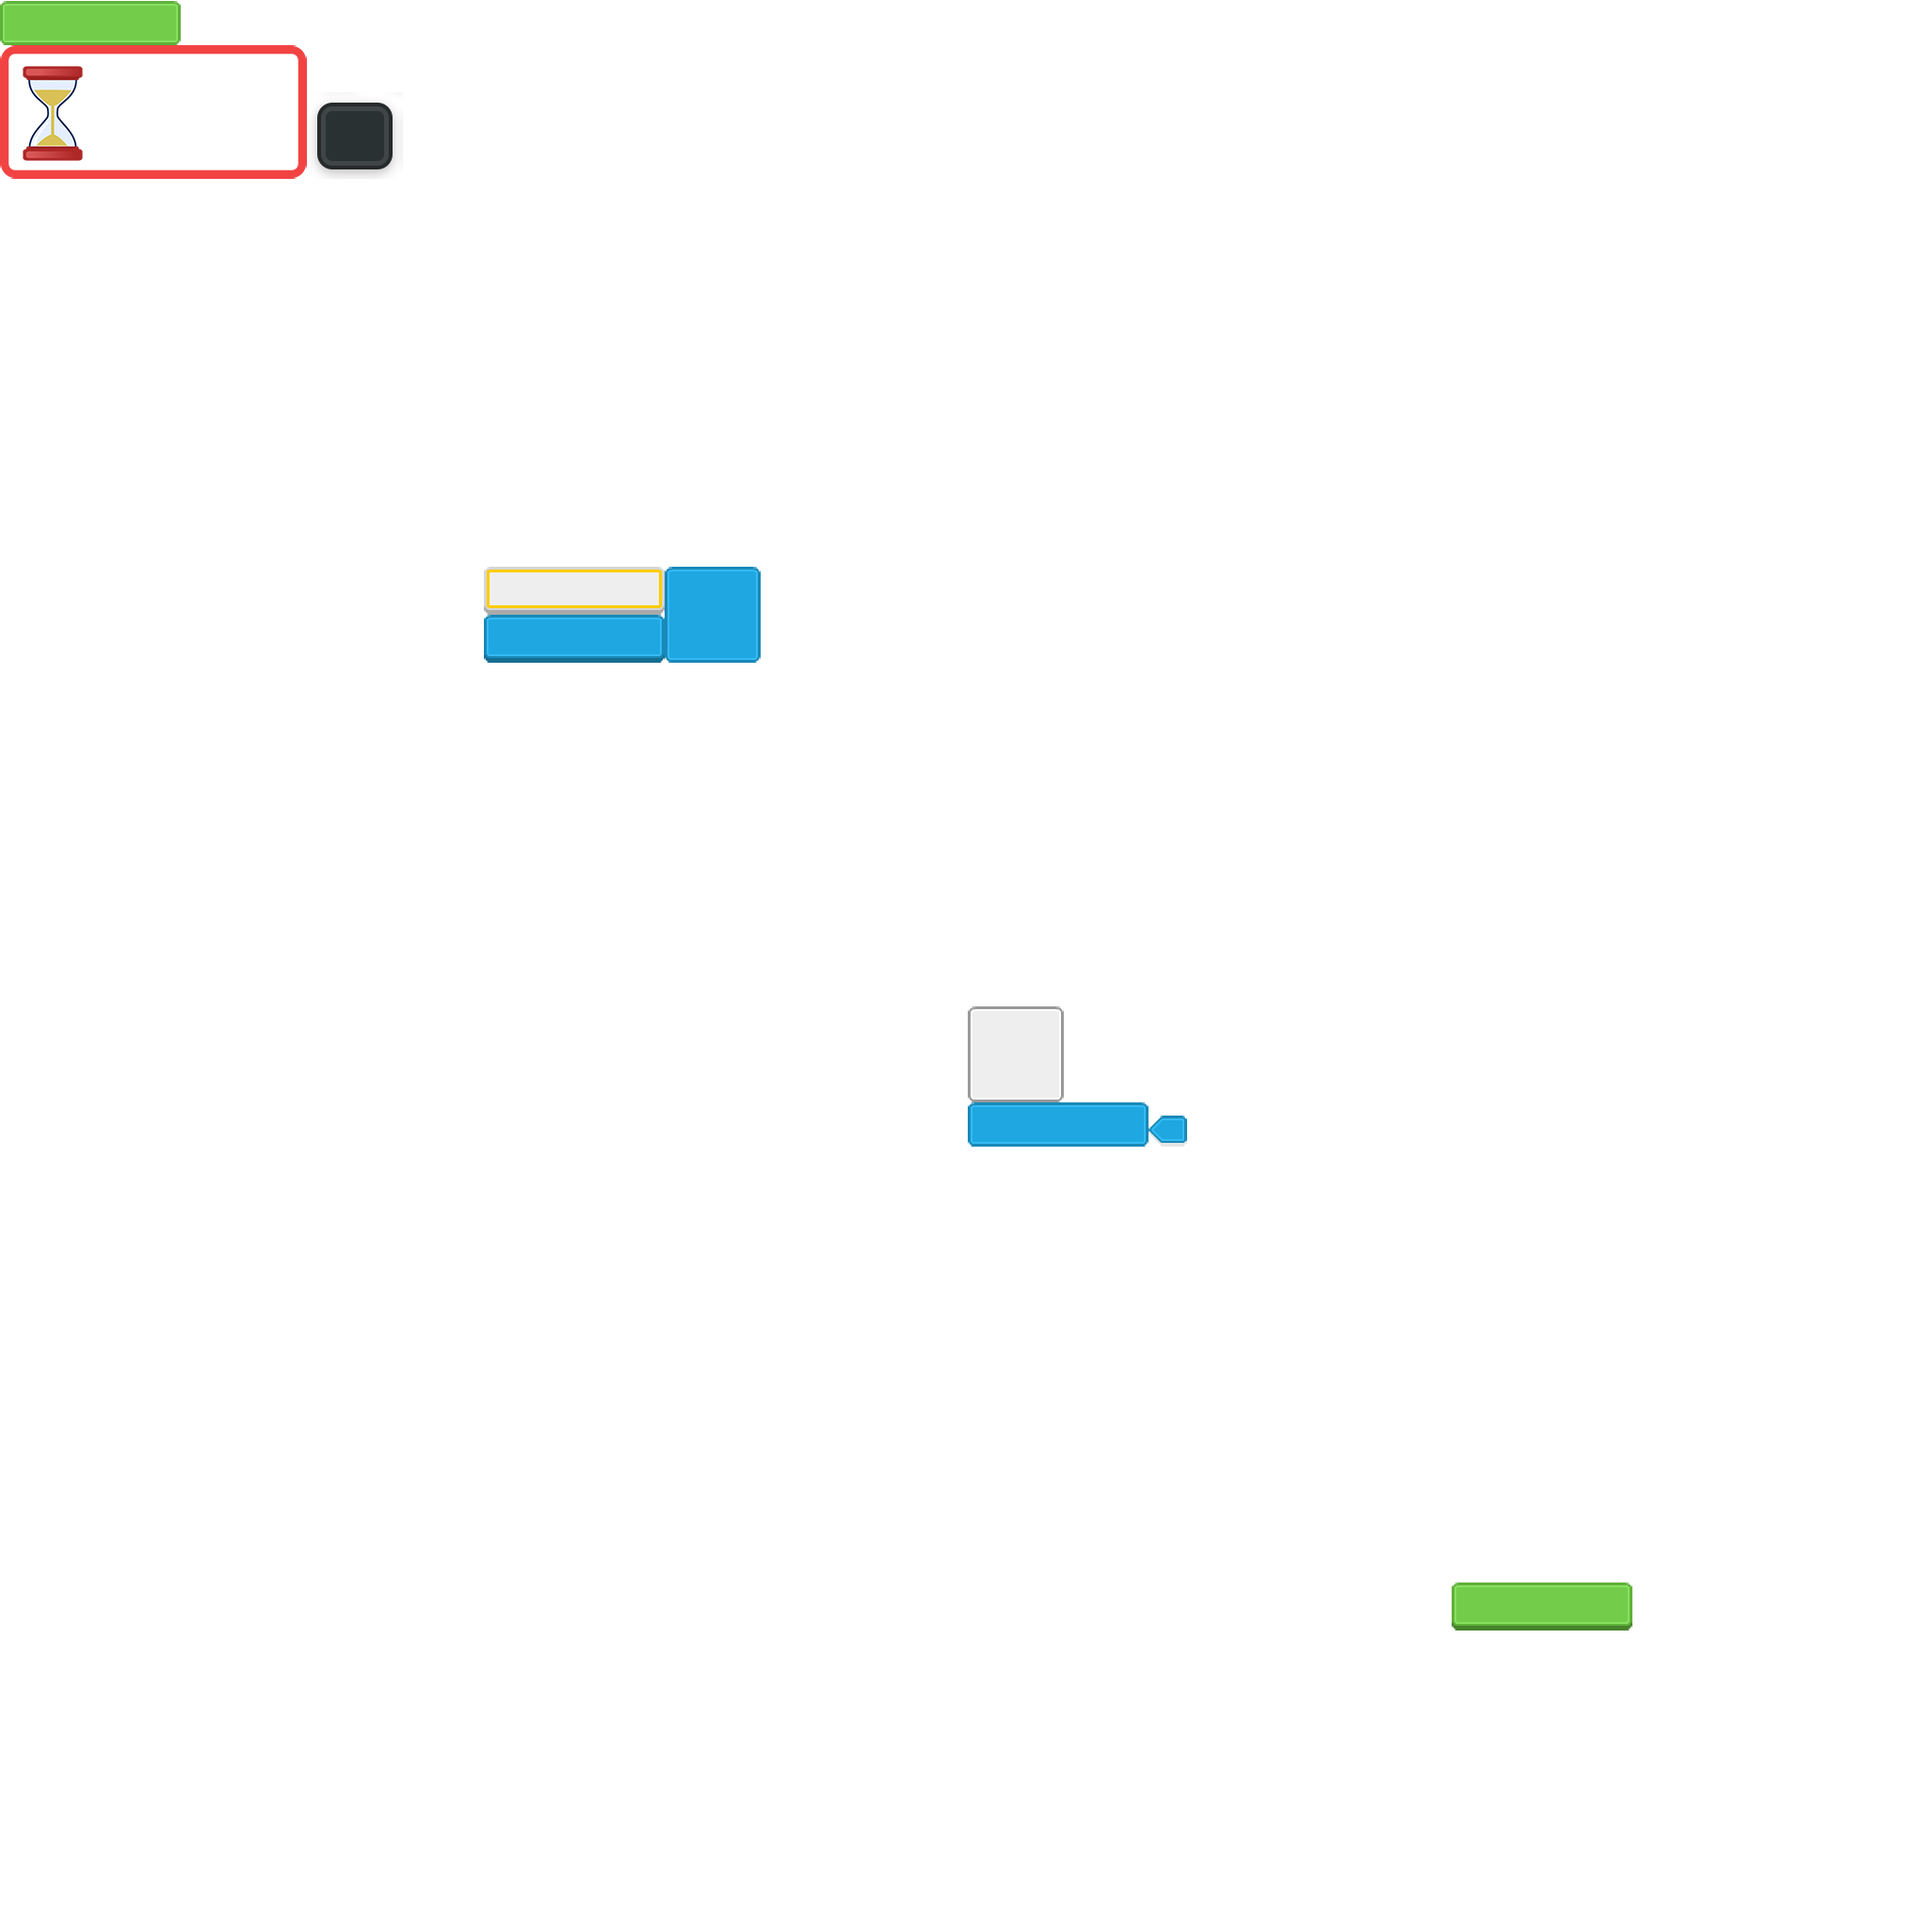
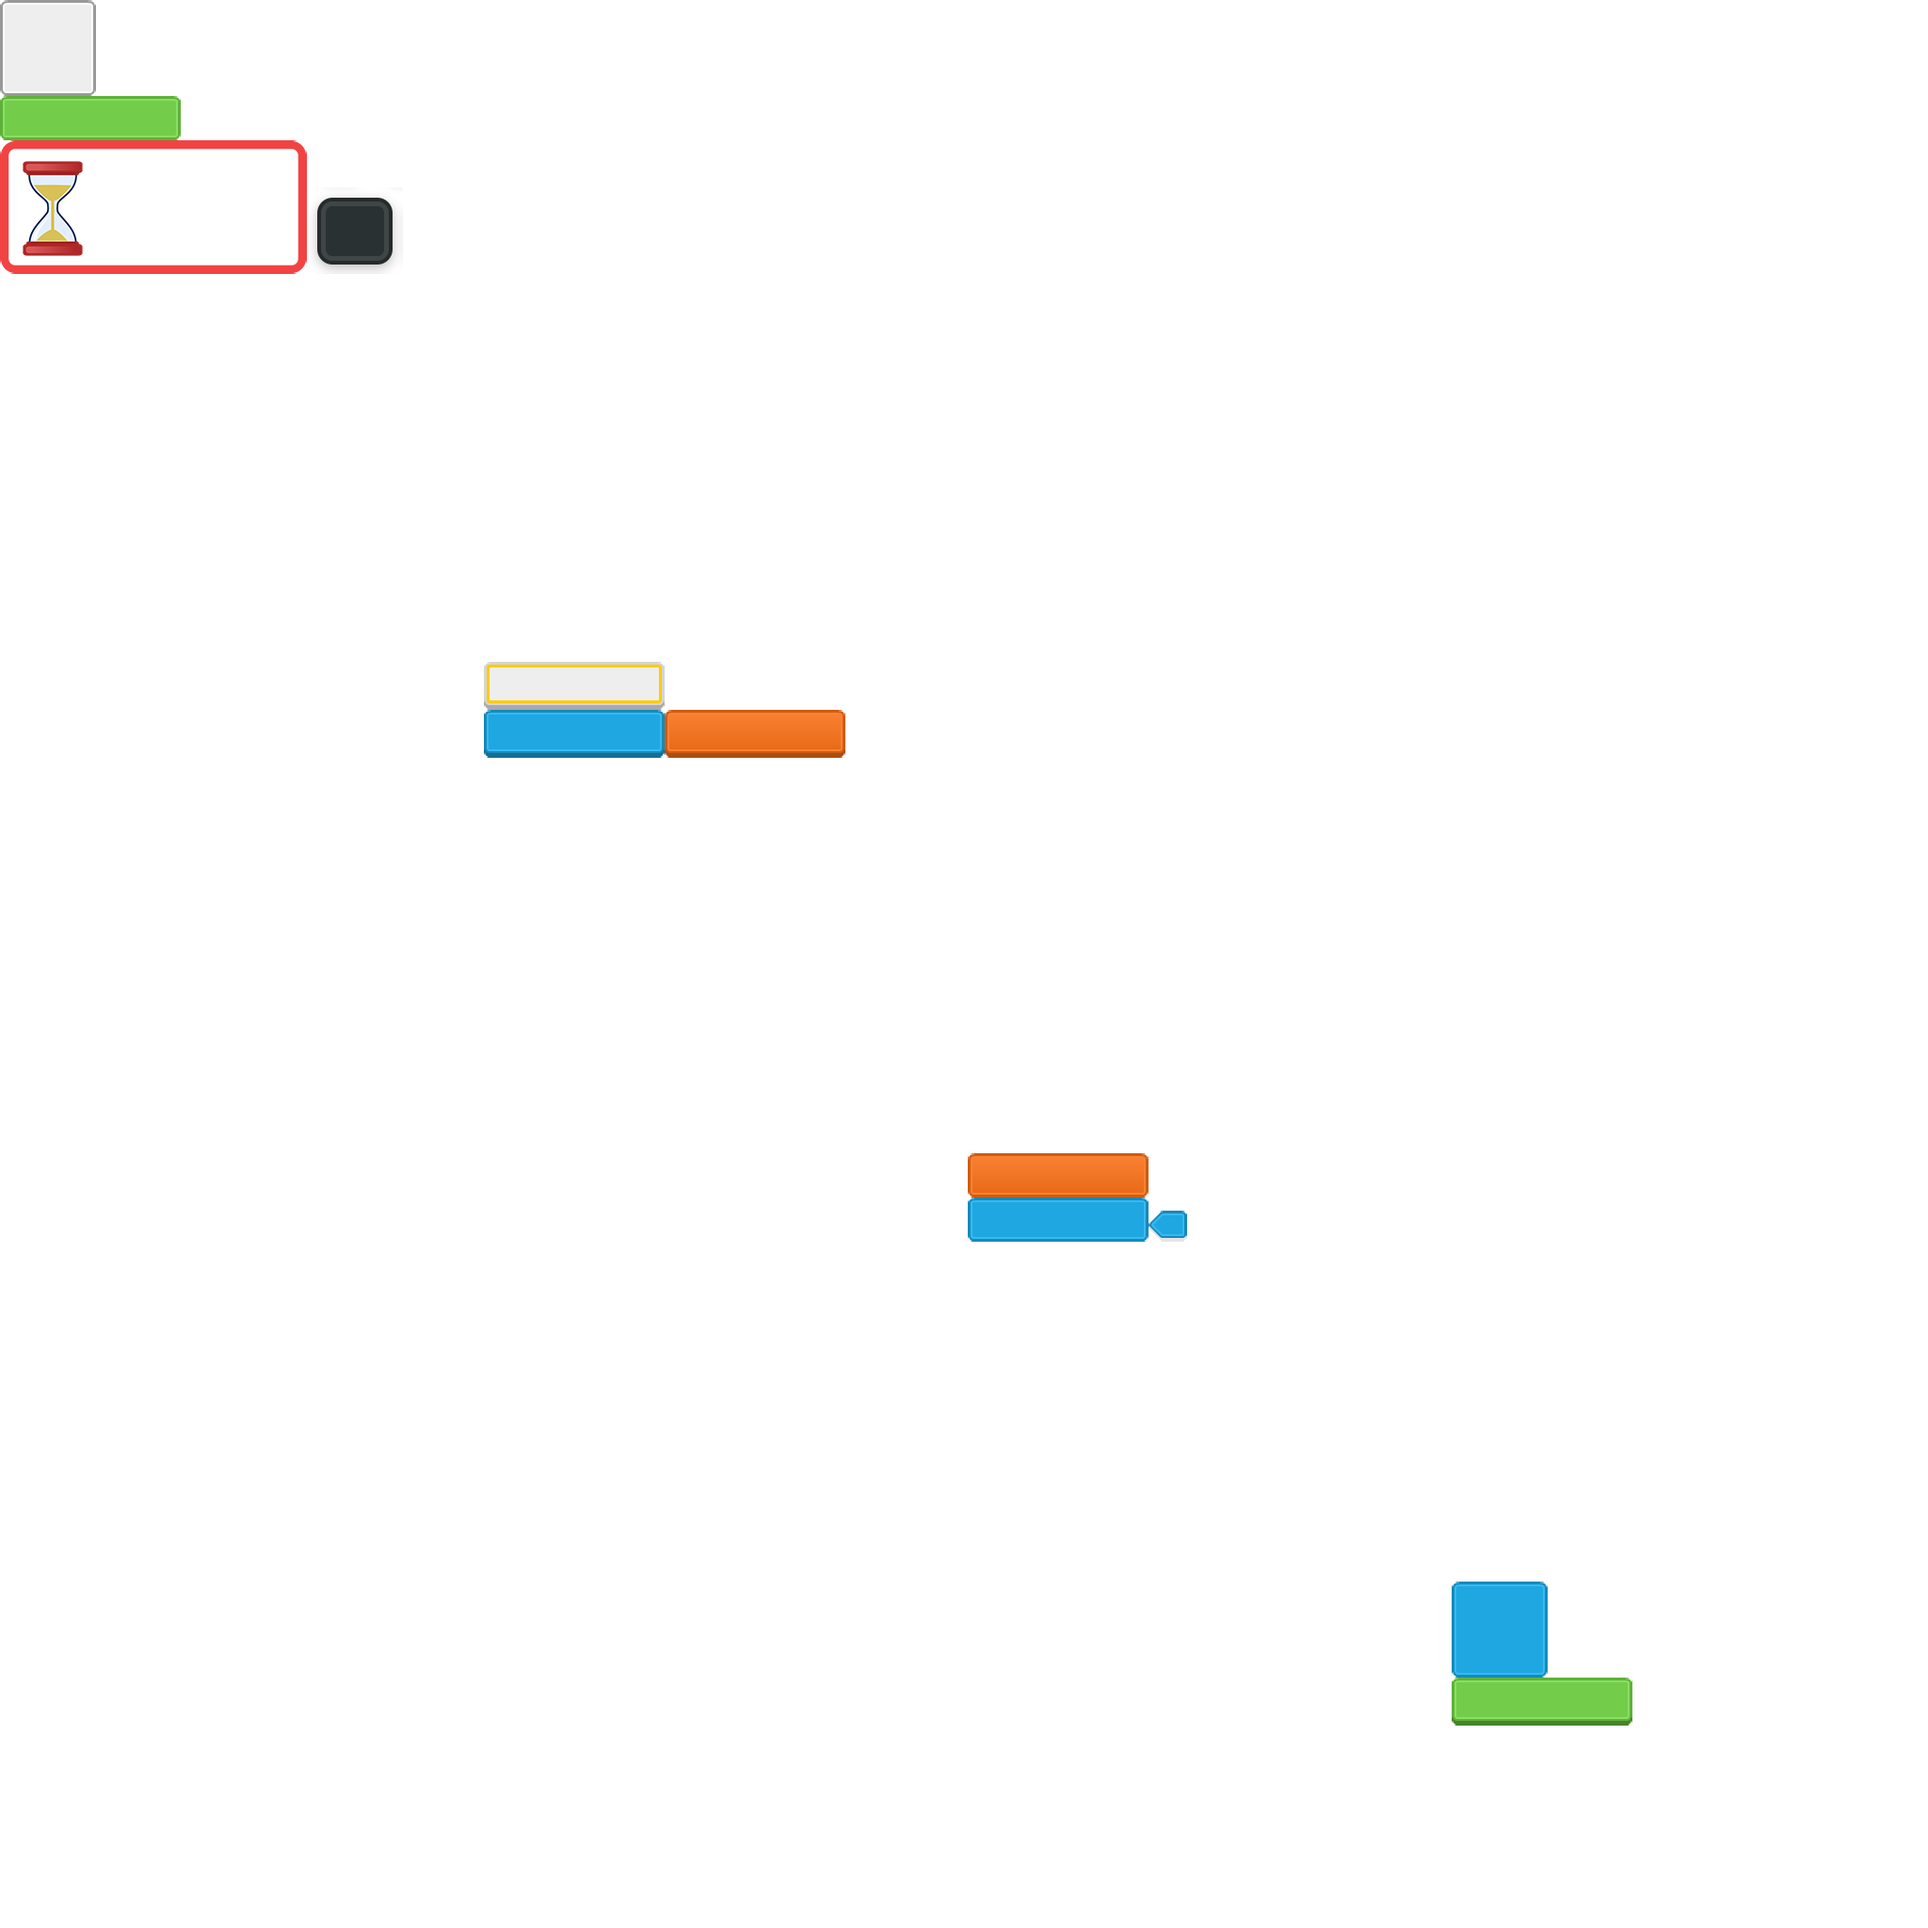
Add leave game packet

diff --git a/server/src/main/java/com/jaeheonshim/ersgame/server/listener/LeaveGameListener.java b/server/src/main/java/com/jaeheonshim/ersgame/server/listener/LeaveGameListener.java
@@ -1,0 +1,54 @@
+package com.jaeheonshim.ersgame.server.listener;
+
+import com.jaeheonshim.ersgame.game.model.GameState;
+import com.jaeheonshim.ersgame.game.model.Player;
+import com.jaeheonshim.ersgame.game.util.GameStateUtil;
+import com.jaeheonshim.ersgame.net.model.GameAction;
+import com.jaeheonshim.ersgame.net.packet.GameActionPacket;
+import com.jaeheonshim.ersgame.net.packet.GameStatePacket;
+import com.jaeheonshim.ersgame.net.packet.OverlayMessagePacket;
+import com.jaeheonshim.ersgame.net.packet.SocketPacket;
+import com.jaeheonshim.ersgame.server.ERSServer;
+import com.jaeheonshim.ersgame.server.GameManager;
+import com.jaeheonshim.ersgame.server.ServerPacketListener;
+import com.jaeheonshim.ersgame.util.ERSException;
+import org.java_websocket.WebSocket;
+
+public class LeaveGameListener extends ServerPacketListener {
+    public LeaveGameListener(ERSServer server) {
+        super(server);
+    }
+
+    @Override
+    public boolean receive(WebSocket socket, SocketPacket packet) {
+        if(packet instanceof GameActionPacket) {
+            GameActionPacket gameActionPacket = ((GameActionPacket) packet);
+            if(gameActionPacket.gameAction == GameAction.LEAVE_GAME) {
+                String uuid = socket.getAttachment();
+                GameState gameState = GameManager.getInstance().getGameOfPlayer(uuid);
+
+                if(gameState == null) throw new ERSException("Player not in game");
+                Player player = gameState.getPlayer(uuid);
+
+                boolean isEmpty = GameStateUtil.removePlayer(gameState, uuid);
+
+                if(isEmpty) {
+                    GameManager.getInstance().removeGame(gameState.getGameCode());
+                    return true;
+                }
+
+                OverlayMessagePacket messagePacket = new OverlayMessagePacket(player.getUsername() + " left");
+                GameStatePacket gameStatePacket = new GameStatePacket(gameState);
+
+                server.send(new GameActionPacket(GameAction.LEAVE_GAME), uuid);
+
+                server.broadcast(messagePacket, gameState);
+                server.broadcast(gameStatePacket, gameState);
+
+                return true;
+            }
+        }
+
+        return false;
+    }
+}

diff --git a/server/src/main/java/com/jaeheonshim/ersgame/server/ERSServer.java b/server/src/main/java/com/jaeheonshim/ersgame/server/ERSServer.java
@@ -1,15 +1,13 @@
 package com.jaeheonshim.ersgame.server;
 
+import com.jaeheonshim.ersgame.game.util.GameStateUtil;
+import com.jaeheonshim.ersgame.server.listener.*;
 import com.jaeheonshim.ersgame.util.ERSException;
 import com.jaeheonshim.ersgame.game.model.GameState;
 import com.jaeheonshim.ersgame.game.model.Player;
 import com.jaeheonshim.ersgame.net.model.UIMessageType;
 import com.jaeheonshim.ersgame.net.packet.*;
 import com.jaeheonshim.ersgame.server.action.GameAction;
-import com.jaeheonshim.ersgame.server.listener.CardActionListener;
-import com.jaeheonshim.ersgame.server.listener.CreateGameListener;
-import com.jaeheonshim.ersgame.server.listener.JoinGameListener;
-import com.jaeheonshim.ersgame.server.listener.StartGameListener;
 import org.java_websocket.WebSocket;
 import org.java_websocket.handshake.ClientHandshake;
 import org.java_websocket.server.WebSocketServer;
@@ -47,15 +45,11 @@ public class ERSServer extends WebSocketServer {
         GameState gameState = GameManager.getInstance().getGameOfPlayer(conn.getAttachment());
         if(gameState != null) {
             Player player = gameState.getPlayer(conn.getAttachment());
-            gameState.removePlayer(conn.getAttachment());
+            boolean isEmpty = GameStateUtil.removePlayer(gameState, conn.getAttachment());
 
-            if(gameState.getPlayerList().size == 0) {
+            if(isEmpty) {
                 GameManager.getInstance().removeGame(gameState.getGameCode());
                 return;
-            }
-
-            if(gameState.getAdminPlayer().equals(player.getUuid())) {
-                gameState.setAdminPlayer(gameState.getPlayerList().get(0));
             }
 
             OverlayMessagePacket messagePacket = new OverlayMessagePacket(player.getUsername() + " left");
@@ -134,6 +128,7 @@ public class ERSServer extends WebSocketServer {
         server.registerListener(new JoinGameListener(server));
         server.registerListener(new StartGameListener(server));
         server.registerListener(new CardActionListener(server));
+        server.registerListener(new LeaveGameListener(server));
         server.run();
     }
 }

diff --git a/core/src/com/jaeheonshim/ersgame/screen/LobbyScreen.java b/core/src/com/jaeheonshim/ersgame/screen/LobbyScreen.java
@@ -33,6 +33,7 @@ public class LobbyScreen implements Screen, GameStateUpdateListener, GameActionL
     private ERSLabel gameCodeLabel;
     private PlayersPane playersPane;
     private ERSTextButton startButton;
+    private ERSTextButton leaveButton;
 
     public LobbyScreen(ERSGame game) {
         this.game = game;
@@ -54,13 +55,23 @@ public class LobbyScreen implements Screen, GameStateUpdateListener, GameActionL
         table.row();
 
         startButton = new ERSTextButton("Start", skin, "green", game);
-        table.add(startButton).expandX().fill().bottom().pad(8);
+        table.add(startButton).expandX().fill().bottom().pad(8).row();
         startButton.setVisible(false);
+
+        leaveButton = new ERSTextButton("Leave Game", skin, "orange", game);
+        table.add(leaveButton).expandX().fill().bottom().pad(8);
 
         startButton.addListener(new ClickListener() {
             @Override
             public void clicked(InputEvent event, float x, float y) {
                 NetManager.getInstance().send(new GameActionPacket(GameAction.START));
+            }
+        });
+
+        leaveButton.addListener(new ClickListener() {
+            @Override
+            public void clicked(InputEvent event, float x, float y) {
+                NetManager.getInstance().send(new GameActionPacket(GameAction.LEAVE_GAME));
             }
         });
 
@@ -94,9 +105,16 @@ public class LobbyScreen implements Screen, GameStateUpdateListener, GameActionL
     }
 
     @Override
+    public void onLeaveGame() {
+        GameStateManager.getInstance().setGameState(null);
+        game.setScreen(game.mainScreen);
+    }
+
+    @Override
     public void show() {
         onUpdate(GameStateManager.getInstance().getGameState());
         Gdx.input.setInputProcessor(stage);
+        startButton.setVisible(false);
     }
 
     @Override

diff --git a/core/src/com/jaeheonshim/ersgame/game/util/GameStateUtil.java b/core/src/com/jaeheonshim/ersgame/game/util/GameStateUtil.java
@@ -30,6 +30,21 @@ public class GameStateUtil {
         gameState.setCanPlay(false);
     }
 
+    public static boolean removePlayer(GameState gameState, String uuid) {
+        Player player = gameState.getPlayer(uuid);
+        gameState.removePlayer(uuid);
+
+        if(gameState.getPlayerList().size == 0) {
+            return true;
+        }
+
+        if(gameState.getAdminPlayer().equals(player.getUuid())) {
+            gameState.setAdminPlayer(gameState.getPlayerList().get(0));
+        }
+
+        return false;
+    }
+
     public static boolean isGameOver(GameState gameState) {
         int count = 0;
 

diff --git a/server/src/main/java/com/jaeheonshim/ersgame/server/listener/CardActionListener.java b/server/src/main/java/com/jaeheonshim/ersgame/server/listener/CardActionListener.java
@@ -26,6 +26,7 @@ public class CardActionListener extends ServerPacketListener {
         if(packet instanceof GameActionPacket) {
             String uuid = socket.getAttachment();
             GameActionPacket gameActionPacket = ((GameActionPacket) packet);
+            if(gameActionPacket.gameAction != GameAction.PLAY_CARD && gameActionPacket.gameAction != GameAction.SLAP) return false;
             GameState gameState = GameManager.getInstance().getGameOfPlayer(uuid);
 
             if(gameState == null) throw new ERSException("Player not in game");

diff --git a/core/src/com/jaeheonshim/ersgame/game/GameStateManager.java b/core/src/com/jaeheonshim/ersgame/game/GameStateManager.java
@@ -57,6 +57,9 @@ public class GameStateManager {
                 case OTHERS_DISCARD:
                     listener.onDiscard(false);
                     break;
+                case LEAVE_GAME:
+                    listener.onLeaveGame();
+                    break;
             }
         }
     }
@@ -94,5 +97,9 @@ public class GameStateManager {
 
     public GameState getGameState() {
         return gameState;
+    }
+
+    public void setGameState(GameState gameState) {
+        this.gameState = gameState;
     }
 }

diff --git a/core/src/com/jaeheonshim/ersgame/screen/JoinGameScreen.java b/core/src/com/jaeheonshim/ersgame/screen/JoinGameScreen.java
@@ -109,6 +109,8 @@ public class JoinGameScreen implements Screen, GameStateUpdateListener {
     @Override
     public void show() {
         Gdx.input.setInputProcessor(stage);
+        nameField.setText("");
+        codeField.setText("");
     }
 
     @Override

diff --git a/core/src/com/jaeheonshim/ersgame/game/GameActionListener.java b/core/src/com/jaeheonshim/ersgame/game/GameActionListener.java
@@ -7,4 +7,5 @@ public interface GameActionListener {
     default void onDiscard(boolean you) {}
     default void onPointUpdate(String uuid, int amount) {}
     default void onGameTimeout(float time) {}
+    default void onLeaveGame() {}
 }

diff --git a/core/src/com/jaeheonshim/ersgame/screen/CreateGameScreen.java b/core/src/com/jaeheonshim/ersgame/screen/CreateGameScreen.java
@@ -103,6 +103,7 @@ public class CreateGameScreen implements Screen, GameStateUpdateListener {
     @Override
     public void show() {
         Gdx.input.setInputProcessor(stage);
+        nameField.setText("");
     }
 
     @Override

diff --git a/core/src/com/jaeheonshim/ersgame/net/model/GameAction.java b/core/src/com/jaeheonshim/ersgame/net/model/GameAction.java
@@ -8,4 +8,5 @@ public enum GameAction {
     SLAP,
     YOU_DISCARD,
     OTHERS_DISCARD,
+    LEAVE_GAME
 }
